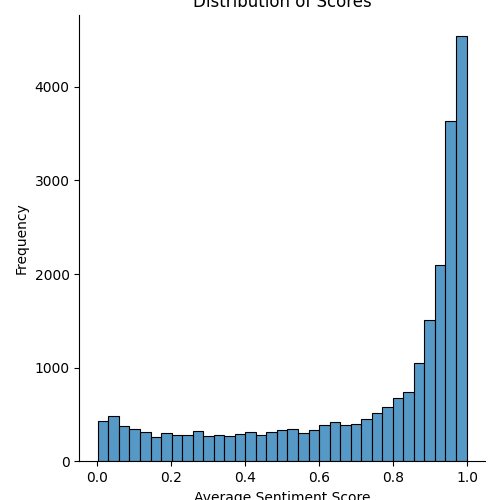
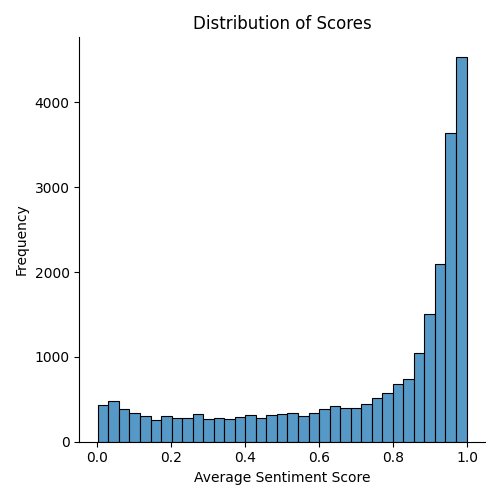
add freq plot

diff --git a/analysis/analysis.py b/analysis/analysis.py
@@ -5,6 +5,9 @@ import os
 import numpy as np
 import json
 from collections import defaultdict
+from conversion import THAI_TO_ENG_TOPIC, FULLNAME_TO_ABBREVIAION
+
+FIGSIZE = (12, 7)
 
 
 def get_sentiment_score_by_month(year: int, month: int):
@@ -25,11 +28,12 @@ def get_sentiment_score_distribution():
             all_avg_scores.extend(get_sentiment_score_by_month(int(year), int(month)))
 
     save_path = "analysis/sentiment_score_distribution.png"
-    plt.figure(figsize=(10, 6))
+    plt.figure(figsize=FIGSIZE)
     sns.displot(data=all_avg_scores)
     plt.title("Distribution of Scores")
     plt.xlabel("Average Sentiment Score")
     plt.ylabel("Frequency")
+    plt.tight_layout()
     plt.savefig(save_path)
     # plt.show()
 
@@ -45,12 +49,13 @@ def plot_sentiment_score_by_month():
 
     df = pd.DataFrame({"month": all_months, "avg_score": score_by_month})
     save_path = "analysis/sentiment_score_by_month.png"
-    plt.figure(figsize=(10, 6))
+    plt.figure(figsize=FIGSIZE)
     sns.lineplot(data=df, x="month", y="avg_score")
     plt.title("Average Sentiment Score by Month")
     plt.xlabel("Month")
     plt.ylabel("Average Sentiment Score")
     plt.xticks(range(len(all_months)), all_months, rotation=45)
+    plt.tight_layout()
     plt.savefig(save_path)
     # plt.show()
 
@@ -64,8 +69,9 @@ def get_frequency_and_avg_score_by_topic():
                 with open(open_path, "r", encoding="utf8") as infile:
                     for line in infile:
                         data = json.loads(line)
-                        topic_dict[data["topic_model"]]["frequency"] += 1
-                        topic_dict[data["topic_model"]]["avg_score"] += data["avg_score"]
+                        converted_topic = THAI_TO_ENG_TOPIC.get(data["topic_model"], "Others")
+                        topic_dict[converted_topic]["frequency"] += 1
+                        topic_dict[converted_topic]["avg_score"] += data["avg_score"]
     for topic, detail in topic_dict.items():
         detail["avg_score"] /= detail["frequency"]
 
@@ -75,26 +81,25 @@ def get_frequency_and_avg_score_by_topic():
 def plot_frequency_and_avg_score_by_topic():
     topic_dict = get_frequency_and_avg_score_by_topic()
     topics = list(topic_dict.keys())
-    for topic in topics:
-        print(topic, topic_dict[topic]["frequency"])
-    # df = pd.DataFrame(
-    #     {
-    #         "topic": topics,
-    #         "frequency": [topic_dict[topic]["frequency"] for topic in topics],
-    #         "avg_score": [topic_dict[topic]["avg_score"] for topic in topics],
-    #     }
-    # )
-    # plt.figure(figsize=(10, 6))
-    # sns.barplot(data=df, x="topic", y="frequency", order=df.sort_values("frequency", ascending=False).topic)
-    # plt.title("Frequency by Topic")
-    # plt.xlabel("Topic")
-    # plt.ylabel("Frequency")
-    # plt.xticks(range(len(topics)), topics, rotation=45)
-    # plt.savefig("analysis/frequency_by_topic.png")
+    df = pd.DataFrame(
+        {
+            "topic": [FULLNAME_TO_ABBREVIAION.get(topic) for topic in topics],
+            "frequency": [topic_dict[topic]["frequency"] for topic in topics],
+            "avg_score": [topic_dict[topic]["avg_score"] for topic in topics],
+        }
+    )
+    plt.figure(figsize=FIGSIZE)
+    sns.barplot(data=df, x="topic", y="frequency", order=df.sort_values("frequency", ascending=False).topic)
+    plt.title("Frequency by Topic")
+    plt.xlabel("")
+    plt.ylabel("Frequency")
+    plt.xticks(rotation=45)
+    plt.tight_layout()
+    plt.savefig("analysis/frequency_by_topic.png")
     # plt.show()
 
 
 if __name__ == "__main__":
-    # get_sentiment_score_distribution()
-    # plot_sentiment_score_by_month()
+    get_sentiment_score_distribution()
+    plot_sentiment_score_by_month()
     plot_frequency_and_avg_score_by_topic()

diff --git a/analysis/conversion.py b/analysis/conversion.py
@@ -1,4 +1,4 @@
-THAI_TO_ENG_TOPIC_CONVERSION = {
+THAI_TO_ENG_TOPIC = {
     "Cabinet Meeting Synopsis": "Cabinet Meeting Synopsis",
     "Government News": "Government News",
     "Statements": "Statements",
@@ -45,4 +45,22 @@ THAI_TO_ENG_TOPIC_CONVERSION = {
     "สร้างรายได้จากผืนดินและส่งเสริมสิ่งแวดล้อม": "Economic Affairs",
     "ภาคการท่องเที่ยว": "Cultural and Tourism Affairs",
     "สิทธิที่ทำกิน": "Legal Affairs",
+}
+
+FULLNAME_TO_ABBREVIAION = {
+    "Prime Minister News": "PM News",
+    "Deputy Prime Minister News": "DPM News",
+    "Government Spokesperson News": "Gov Spox News",
+    "Government News": "Gov News",
+    "Cabinet Meeting Synopsis": "Meeting",
+    "Statements": "Statements",
+    "Official Thai Government LINE Account": "Thai Govt Line",
+    "Official Thai Government Radio Program": "Thai Govt Radio",
+    "Security Affairs": "Security",
+    "Legal Affairs": "Legal",
+    "Cultural and Tourism Affairs": "Cultural/Tourism",
+    "Education Affairs": "Education",
+    "Social Affairs": "Social",
+    "Economic Affairs": "Economic",
+    "Others": "Others",
 }
